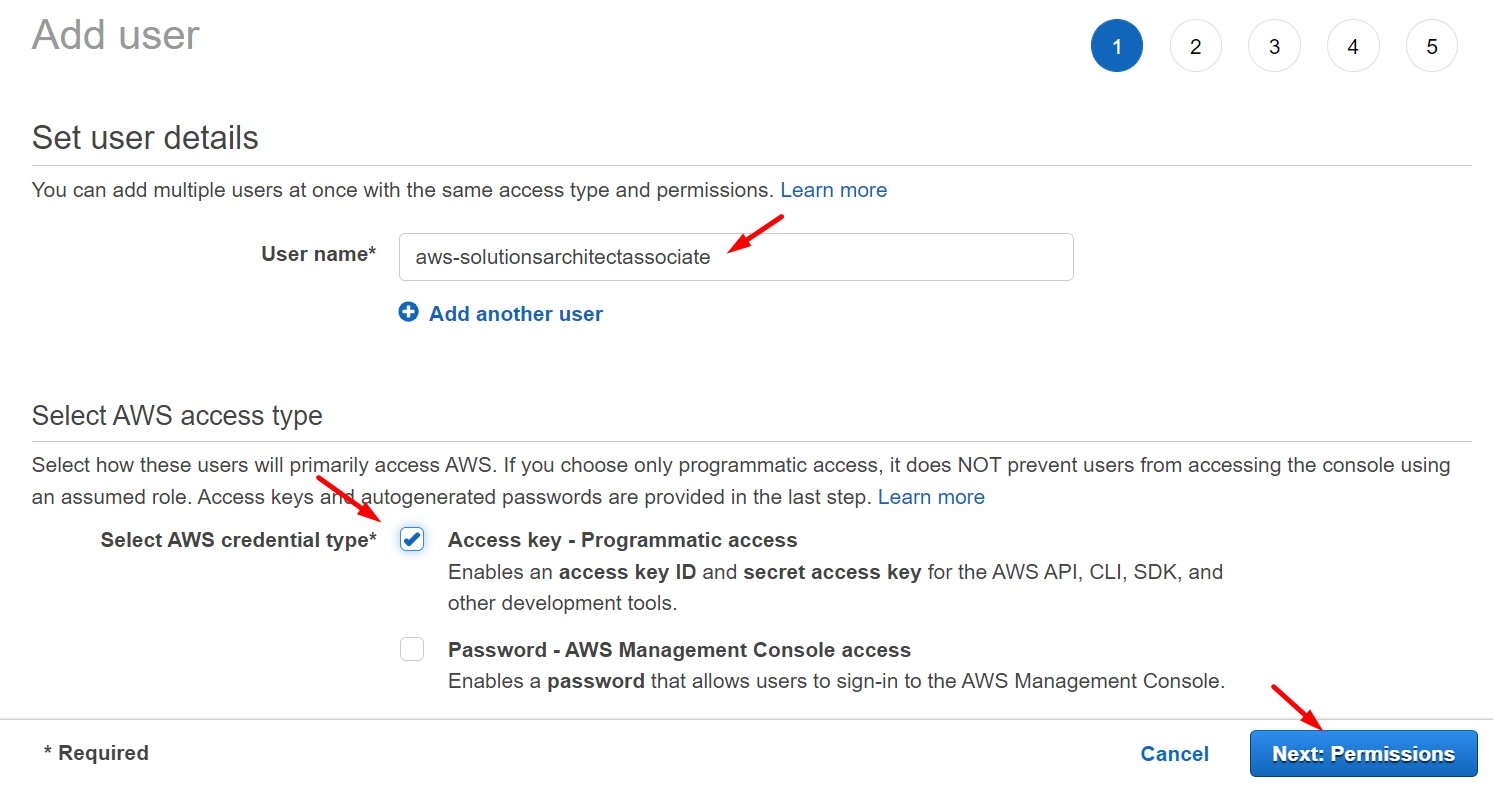
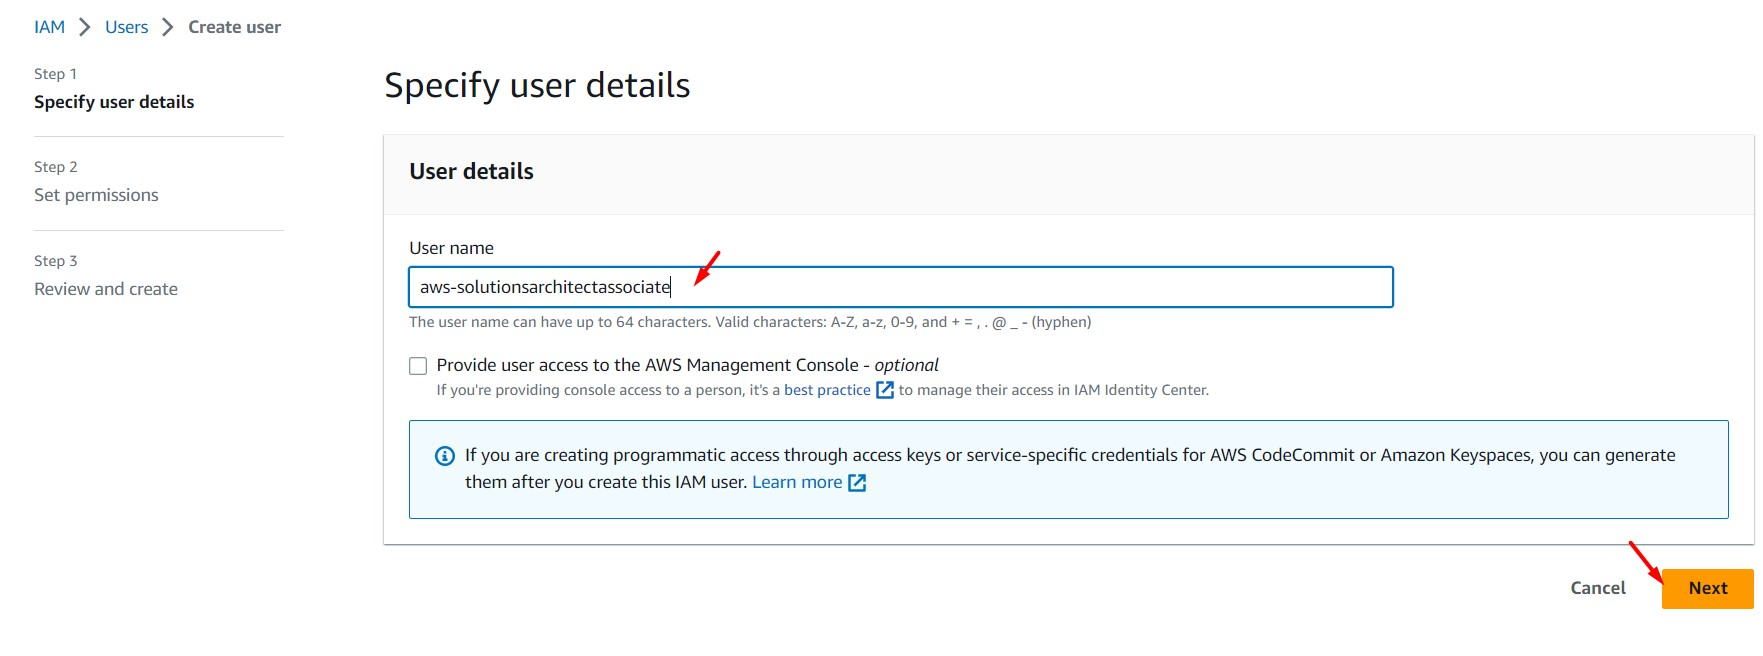
Update Lab-03

diff --git a/Lab-03/README-Lab03.md b/Lab-03/README-Lab03.md
@@ -137,7 +137,10 @@ npm run build
 
 <br>
 
-8. Generar credenciales programáticas desde el servicio IAM. En el proceso seleccionar "Access key - Programmatic access" y la política "AmazonS3FullAccess". Copiar los valores "Access key ID" y "Secret access key". Se visualizará que nuestra página cargará el contenido estático.
+8. Crear un usuario IAM desde la opción "Users".
+
+    * User name: aws-solutionsarchitectassociate
+    * Policy: AmazonS3FullAccess 
 
 <br>
 
@@ -157,12 +160,35 @@ npm run build
 
 <br>
 
+9. Accedemos a las propiedades del usuario IAM creado y procedemos a generar "Access Keys". Guardaremos el "Access Key" y el "Secret access key" de forma segura. Estos accesos serán usados vía AWSCLI en la instancia EC2.
+
+<br>
+
 <img src="images/Lab03_11.jpg">
 
 <br>
 
+<img src="images/Lab03_19.jpg">
 
-9. Ingresar nuevamente a la instancia EC2 y ejecutar los siguientes comandos
+<br>
+
+<img src="images/Lab03_20.jpg">
+
+<br>
+
+<img src="images/Lab03_21.jpg">
+
+<br>
+
+<img src="images/Lab03_22.jpg">
+
+<br>
+
+<img src="images/Lab03_23.jpg">
+
+<br>
+
+10. Ingresar nuevamente a la instancia EC2 y ejecutar los siguientes comandos
 
 ```bash
 
@@ -179,7 +205,7 @@ echo $BUCKET
 aws s3 sync . s3://$BUCKET
 ```
 
-10. Ingresar al bucket generado. Desde la pestaña "Objects" se observará los objetos cargados al bucket desde la instancia EC2. Desde la pestaña "Properties" y la sección "Static website hosting" accederemos al endpoint de nuestra aplicación 
+11. Ingresar al bucket generado. Desde la pestaña "Objects" se observará los objetos cargados al bucket desde la instancia EC2. Desde la pestaña "Properties" y la sección "Static website hosting" accederemos al endpoint de nuestra aplicación 
 
 <br>
 
@@ -199,16 +225,20 @@ aws s3 sync . s3://$BUCKET
 
 <br>
 
-11. Los siguientes pasos se realizarán sobre la instancia EC2 "PROD DB". Para acceder a esta instancia deberemos ingresar primero a la instancia "PROD BACKEND" y desde aquí damos el salto a "PROD DB". Este procedimiento fue detallado en el Laboratorio 1.
+12. Los siguientes pasos se realizarán sobre la instancia EC2 "PROD DB". Para acceder a esta instancia deberemos ingresar primero a la instancia "PROD BACKEND" y desde aquí damos el salto a "PROD DB". Este procedimiento fue detallado en el Laboratorio 1. Identificar la IP Privado de la instancia "PROD DB" y reemplazarlo en el siguiente comando
 
 ```bash
-ssh -i aws-solutionsarchitectassociate.pem ubuntu@192.168.3.120
+#Cargar KeyPair .pem en instancia EC2 BACKEND
+#Asignar permisos "chmod 400 en KeyPair
+#Ejecución de comando de conexión SSH
+ssh -i aws-solutionsarchitectassociate.pem ubuntu@$IP_PRIVADA_PROD_DB
 ```
 
-12. Dentro de la instancia "PROD DB" ejecutamos los siguientes pasos. El objetivo es instalar la base de datos MySQL y realizar la creación de una tabla.
+13. Dentro de la instancia "PROD DB" ejecutamos los siguientes pasos. El objetivo es instalar la base de datos MySQL y realizar la creación de una tabla.
 
 ```bash
 #Instalación Servidor MySQL
+sudo su
 sudo apt-get update
 sudo apt-get install mysql-server -y
 sudo service mysql status
@@ -247,7 +277,7 @@ quit
 EOF
 ```
 
-13. Una vez configurada nuestra instancia "PROD DB", regresamos a nuestra instancia "PROD BACKEND" y realizamos cambios en el archivo de configuración ".env" ubicado en "/opt/aws-solutionsarchitectassociate/App/backend/". En este archivo indicaremos (ubicado en la instancia "PROD DB") la ip privada de la instancia "PROD DB".
+14. Una vez configurada nuestra instancia "PROD DB", regresamos a nuestra instancia "PROD BACKEND" y realizamos cambios en el archivo de configuración ".env" ubicado en "/opt/aws-solutionsarchitectassociate/App/backend/". En este archivo indicaremos (ubicado en la instancia "PROD DB") la ip privada de la instancia "PROD DB".
 
 ```bash
 #Instalación del Backend
@@ -268,7 +298,7 @@ npm start &
 
 <br>
 
-14. Accedemos nuevamente a nuestro endpoint web generado desde S3, podemos visualizar que la web se encuentra disponible para su uso. Procedemos a crear un registro. Ingresamos a la instancia "PROD DB" (desde "PROD BACKEND") luego a MySQL con el usuario admin y validamos que la información creada desde el frontend se encuentre almacenada en la base de datos. Dentro de la instancia "PROD DB" ejecutar los siguientes comandos.
+15. Accedemos nuevamente a nuestro endpoint web generado desde S3, podemos visualizar que la web se encuentra disponible para su uso. Procedemos a crear un registro (Task). Ingresamos a la instancia "PROD DB" (desde "PROD BACKEND") luego a MySQL con el usuario admin y validamos que la información creada desde el frontend se encuentre almacenada en la base de datos. Dentro de la instancia "PROD DB" ejecutar los siguientes comandos.
 
 <br>
 
